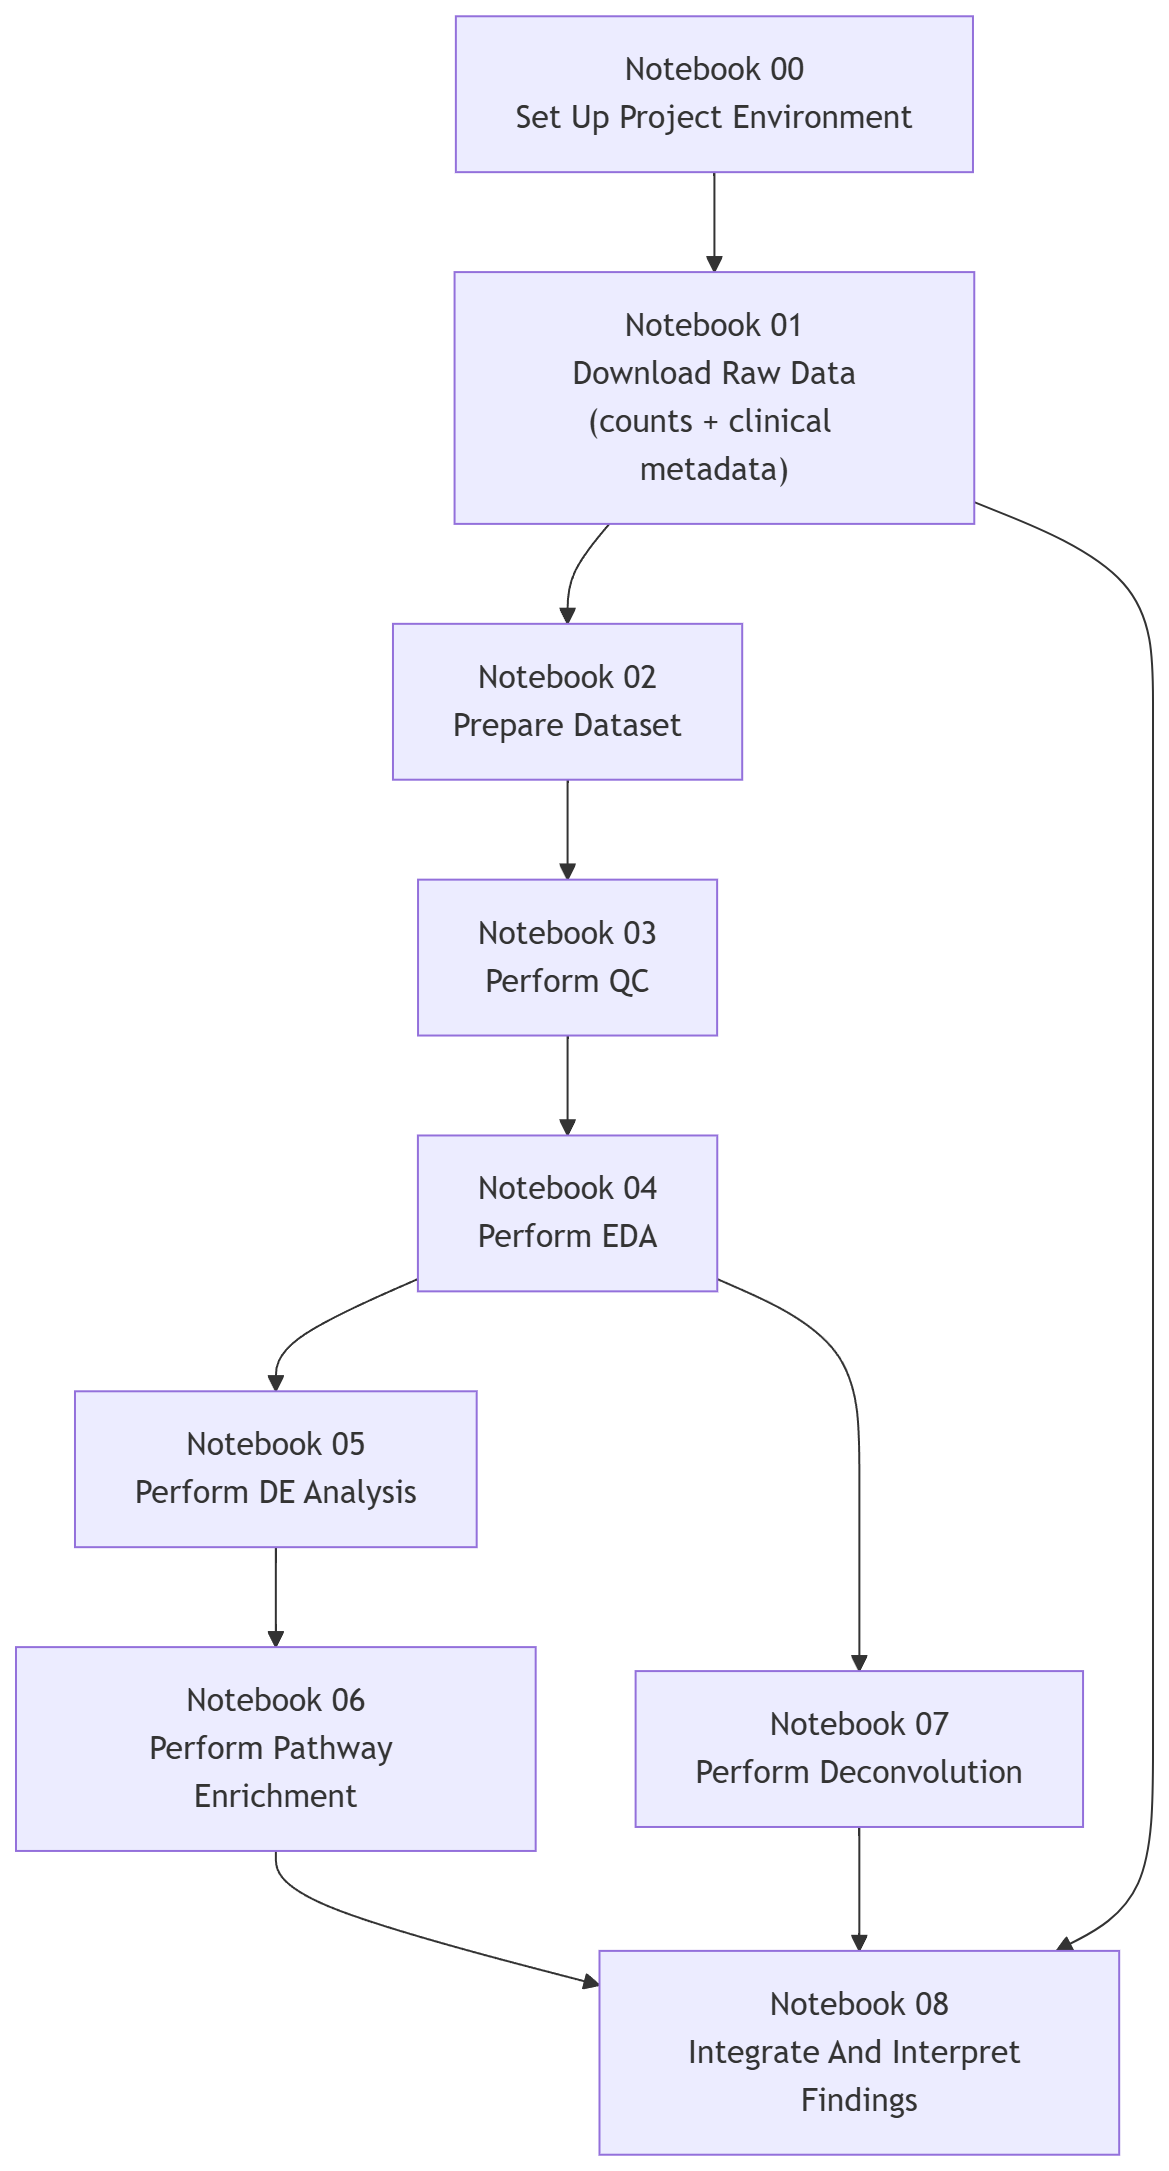
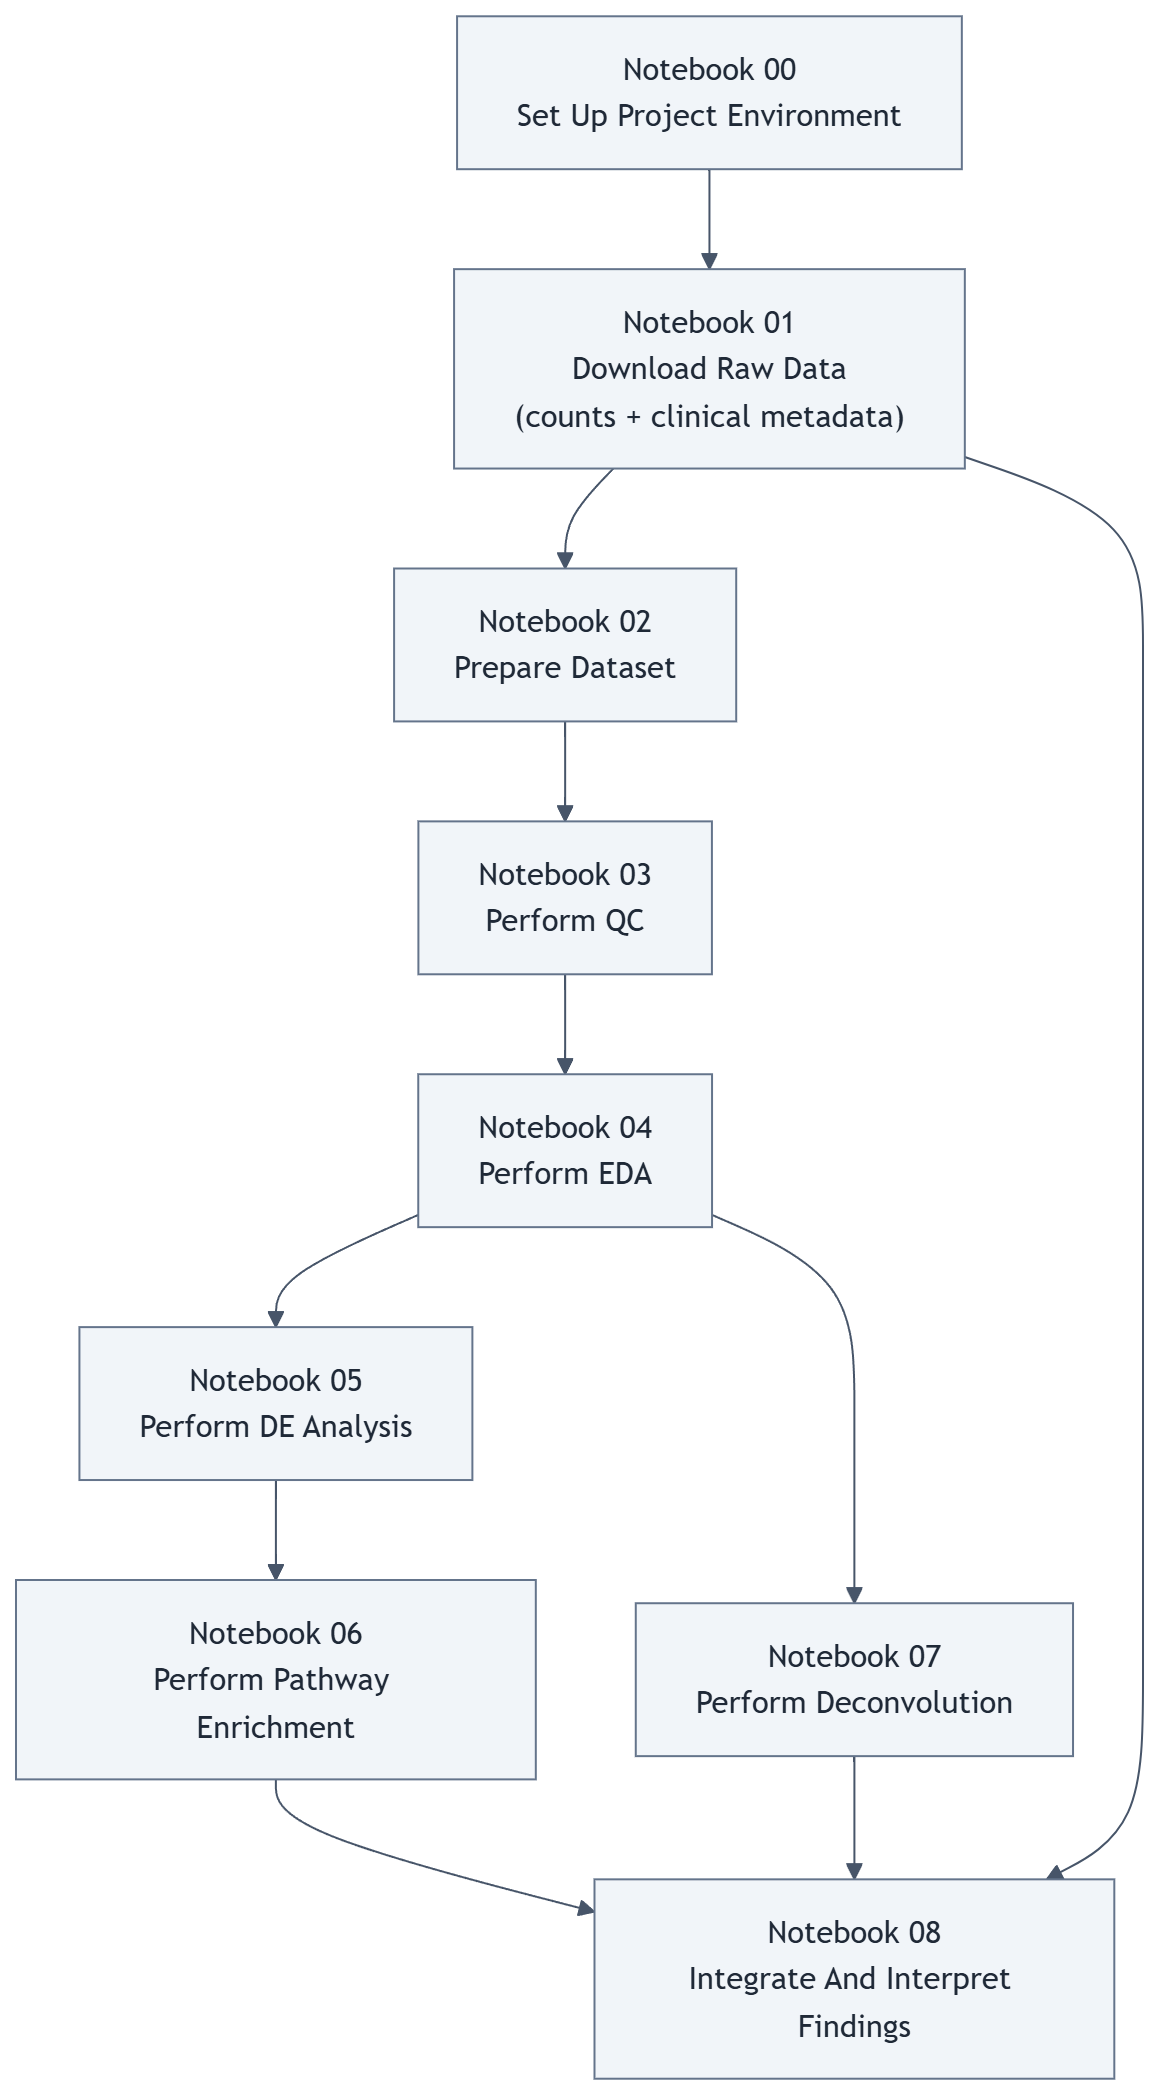
README adjustments

diff --git a/README.md b/README.md
@@ -137,8 +137,10 @@ Execute notebooks sequentially (00 → 09). Each notebook saves intermediate out
 ### Project Pipeline Architecture
 
 <p align="center">
-  <img src="gbm_project_pipeline_flowchart.png" alt="Project Pipeline Flowchart" width="50%" #gh-light-mode-only />
-  <img src="gbm_project_pipeline_flowchart.png" alt="Project Pipeline Flowchart" width="50%" style="filter: invert(1) hue-rotate(180deg);" #gh-dark-mode-only />
+    <picture>
+        <source media="(prefers-color-scheme: dark)" srcset="gbm_project_pipeline_flowchart_dark.png">
+        <img src="gbm_project_pipeline_flowchart.png" alt="GBM Project Pipeline Flowchart" width=60%>
+    </picture>
 </p>
 
 ### Analytical Decisions
